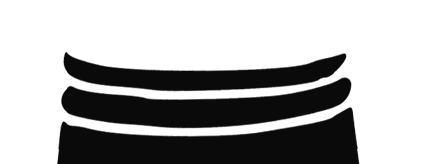
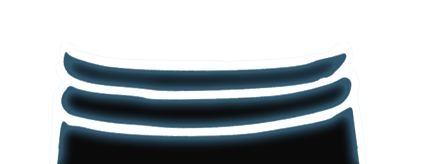
mejorado botones y frames

Changed region(s): [[0.1215, 0.3049, 0.8505, 1.0]]

diff --git a/app/ui/AnimatedButton.js b/app/ui/AnimatedButton.js
@@ -1,11 +1,11 @@
 "use client"
 import { useState } from "react";
 import { SiWikipedia } from "react-icons/si";
-import { CiImageOn } from "react-icons/ci";
+import { GiFamilyTree } from "react-icons/gi";
 import { MdOutlineTextsms } from "react-icons/md";
 import Image from "next/image";
 
-export const AnimatedButton = ({ id, name, wiki, info, img, color_bg, h, w }) => {
+export const AnimatedButton = ({ id, name, wiki, info, img, color_bg, h, w, zIndex, progenitor ,descendant ,couple ,siblings ,related }) => {
   const visibleName = name.replace(/_/g, "\u00A0");
   const [popup, setPopup] = useState(null);
   const [isHovering, setIsHovering] = useState(false);
@@ -22,6 +22,7 @@ export const AnimatedButton = ({ id, name, wiki, info, img, color_bg, h, w }) =>
     <div 
       id={id}
       className="relative flex flex-col items-center"
+      style={{zIndex:zIndex}}
       onMouseEnter={() => {
         clearTimeout(leaveTimeout);
         setIsHovering(true);
@@ -34,16 +35,20 @@ export const AnimatedButton = ({ id, name, wiki, info, img, color_bg, h, w }) =>
       }}
     >
       <button
-        className={`border-none rounded-[40px] w-60 cursor-pointer group relative`}
+        className={`border-none rounded-[40px] cursor-pointer group relative`}
         style={{
-          height: `${hei}rem`,
-          width: `${wid}rem`
+          height: `${hei}vw`,
+          width: `${wid}vw`
         }}
       >
-        <span className={`z-10 capitalize inline-block ${color_bg} rounded-[25px] text-black leading-[60px] text-lg tracking-widest transition-all duration-500 group-hover:!w-0 group-hover:opacity-0`}
+        <span className={`z-10 capitalize inline-flex items-center justify-center ${color_bg} rounded-[25px] text-black leading-[60px] text-[1.1vw] tracking-widest transition-all duration-500 group-hover:!w-0 group-hover:opacity-0`}
           style={{
-            height: `${hei}rem`,
-            width: `${wid}rem`
+            height: `${hei}vw`,
+            width: `${wid}vw`,
+            display: 'inline-flex', // Cambiado a flex para mejor control
+            alignItems: 'center', // Centrado vertical
+            justifyContent: 'center', // Centrado horizontal
+            textAlign: 'center' // Redundante pero segura
           }}
         >
           {visibleName}
@@ -52,39 +57,33 @@ export const AnimatedButton = ({ id, name, wiki, info, img, color_bg, h, w }) =>
         <div className="absolute inset-0 flex items-center justify-center opacity-0 group-hover:opacity-100 transition-opacity duration-300 gap-2">
           <div className="relative">
             <MdOutlineTextsms
-              className="text-white w-[45px] h-[45px] px-2.5 cursor-pointer"
+              className="text-yellow-500/80 bg-gray-900 rounded-4xl w-[3.2vw] h-[3.2vw] px-[.7vw] cursor-pointer"
               onClick={() => togglePopup("text")}
             />
           </div>
 
           <div className="relative">
-            <CiImageOn
-              className="text-white w-[45px] h-[45px] px-2.5 cursor-pointer"
+            <GiFamilyTree
+              className="text-yellow-500/80 bg-gray-900 rounded-4xl w-[3.2vw] h-[3.2vw] px-[.7vw] cursor-pointer"
               onClick={() => togglePopup("image")}
             />
           </div>
 
           <a href={wiki} target="_blank" rel="noopener noreferrer">
-            <SiWikipedia className="text-white w-[45px] h-[45px] px-2.5" />
+            <SiWikipedia className="text-yellow-500/80 bg-gray-900 rounded-4xl w-[3.2vw] h-[3.2vw] px-[.7vw]" />
           </a>
         </div>
       </button>
 
       {popup === "text" && isHovering && (
         <div 
-          className="absolute top-full translate-y-2 w-[300px] h-[300px] bg-white text-black rounded-xl shadow-md overflow-auto z-50"
+          className="absolute top-full border-2 border-yellow-500/90 overflow-hidden translate-y-2 w-[22vw] h-[22vw] rounded-xl bg-gray-900 shadow-md"
+          style={{zIndex:zIndex}}
         >
-          <div className="relative flex flex-col h-full">
-            <div className="relative h-2/3 w-full">
-              <Image
-                src={img}
-                alt="Imagen descriptiva"
-                fill
-                className="object-cover object-top"
-              />
-            </div>
-            <div className="h-1/2 p-2">
-              <p className="text-sm">{info}</p>
+          <div className="relative flex flex-col h-full font-sans text-yellow-500/60 bg-gray-900">
+            <div className="p-2">
+              <h4 className="text-center font-ringm text-[1.5vw]">Summary</h4>
+              <p className="text-sm text-[1.2vw]">{info}</p>
             </div>
           </div>
         </div>
@@ -92,15 +91,76 @@ export const AnimatedButton = ({ id, name, wiki, info, img, color_bg, h, w }) =>
 
       {popup === "image" && isHovering && (
         <div 
-          className="absolute top-full translate-y-2 w-[250px] h-[200px] bg-white p-0.5 rounded-xl shadow-md overflow-hidden z-50"
-        >
-          <Image
-            src={img}
-            alt="Imagen descriptiva"
-            fill
-            className="object-cover object-top rounded-lg"
-          />
-        </div>
+  className="absolute top-full scroll-auto border-2 border-yellow-500/90 translate-y-2 w-[22vw] h-[22vw] bg-gray-900 rounded-xl shadow-md overflow-hidden"
+  style={{zIndex: zIndex}}
+>
+  <div className="relative flex flex-col h-full font-sans text-yellow-500/60 bg-gray-900 overflow-y-auto">
+    <div className="p-[.5vw]">
+      <h4 className="text-center font-ringm text-[1.5vw] sticky top-0 bg-gray-900 pb-[.5vw]">Related</h4>
+      <div className="columns-2 gap-4 items-center text-[1.2vw]">
+        {/* Lista 1 */}
+        {progenitor.length > 0 && (
+          <div className="break-inside-avoid pb-[1vw] text-center">
+            <span className="font-bold block">Progenitor/s</span>
+            <ul>
+              {progenitor.map((prog, i) => (
+                <li key={i}>{prog}</li>
+              ))}
+            </ul>
+          </div>
+        )}
+
+        {/* Lista 2 */}
+        {descendant.length > 0 && (
+          <div className="break-inside-avoid pb-[1vw] text-center">
+            <span className="font-bold block">Descendant</span>
+            <ul>
+              {descendant.map((prog, i) => (
+                <li key={i}>{prog}</li>
+              ))}
+            </ul>
+          </div>
+        )}
+
+        {/* Lista 3 */}
+        {couple.length > 0 && (
+          <div className="break-inside-avoid pb-[1vw] text-center">
+            <span className="font-bold block">Couple</span>
+            <ul>
+              {couple.map((prog, i) => (
+                <li key={i}>{prog}</li>
+              ))}
+            </ul>
+          </div>
+        )}
+
+        {/* Lista 4 */}
+        {siblings.length > 0 && (
+          <div className="break-inside-avoid pb-[1vw] text-center">
+            <span className="font-bold block">Siblings</span>
+            <ul>
+              {siblings.map((prog, i) => (
+                <li key={i}>{prog}</li>
+              ))}
+            </ul>
+          </div>
+        )}
+
+        {/* Lista 5 */}
+        {related.length > 0 && (
+          <div className="break-inside-avoid pb-[1vw] text-center">
+            <span className="font-bold block">Related</span>
+            <ul>
+              {related.map((prog, i) => (
+                <li key={i}>{prog}</li>
+              ))}
+            </ul>
+          </div>
+        )}
+      </div>
+    </div>
+  </div>
+</div>
       )}
     </div>
   );

diff --git a/app/ui/FrameButton.js b/app/ui/FrameButton.js
@@ -1,0 +1,65 @@
+import Image from "next/image"
+import { AnimatedButton } from "./AnimatedButton"
+
+export const FrameButton = ({ id, name, wiki, info, img, marco, color_bg, h, w, zindex, progenitor ,descendant ,couple ,siblings ,related }) => {
+
+    const zin = 999 - zindex
+    const zin_string = zin.toString()
+    console.log(zin_string);
+    console.log(typeof(zin_string));
+    return (
+        <div className="relative w-[18vw] h-[20vw] flex justify-center items-center mx-auto"
+            style={{zIndex:zin_string}}
+        >
+            {/* Contenedor de la imagen de contenido - CENTRADA */}
+            <div className="absolute inset-0 flex items-center justify-center">
+                <div className="relative w-[10vw] h-[16vw]"> {/* Ajusta el tamaño con w-2/3 h-2/3 o el % que necesites */}
+                    <Image
+                        src={img}
+                        alt="Imagen de contenido"
+                        fill
+                        className="object-cover object-top"
+                        sizes="(max-width: 768px) 100vw, 50vw"
+                    />
+                </div>
+            </div>
+
+            {/* Marco (ocupa todo el espacio) */}
+            <div className="absolute inset-0 w-full h-full z-10">
+                <Image
+                    src={marco}
+                    alt="Marco decorativo"
+                    fill
+                    className="object-contain"
+                    sizes="(max-width: 768px) 100vw, 50vw"
+                />
+            </div>
+
+            <div className="absolute inset-0 w-full h-full z-20">
+                <div className="relative w-full h-full">
+                    {/* <span className="absolute whitespace-nowrap bottom-4 font-ringm left-1/2 -translate-x-1/2 w-fit px-3 rounded-2xl text-black border-[#9d342e] border-2 bg-gradient-to-r from-[#cb3d17] via-[#f3cb00] to-[#cb3d17] text-center">
+                        {name.replace(/_/g, ' ')}
+                    </span> */}
+                    <div className="absolute bottom-4 font-ringm left-1/2 -translate-x-1/2">
+                        <AnimatedButton 
+                            id={id} 
+                            name={name} 
+                            wiki={wiki} 
+                            info={info} 
+                            img={img} 
+                            color_bg={color_bg} 
+                            h={h} 
+                            w={w}
+                            progenitor={progenitor}
+                            descendant={descendant}
+                            couple={couple}
+                            siblings={siblings}
+                            related={related}
+                            zIndex={zin_string}                 
+                        />
+                    </div>
+                </div>
+            </div>
+        </div>
+    )
+}

diff --git a/app/sections/RacesSection.js b/app/sections/RacesSection.js
@@ -1,6 +1,8 @@
 import { AnimatedButton } from "../ui/AnimatedButton"
+import { FrameButton } from "../ui/FrameButton"
 
-export const RacesSection = ({ data, index, img_bg = "illuvatar.jpg", h, w, order = "grid grid-cols-3 gap-y-5" }) => {
+
+export const RacesSection = ({ data, index, img_bg = "illuvatar.jpg", h, w, order = "grid grid-cols-3", marco }) => {
     return (
         <div className="flex justify-between">
             <div className="flex justify-between overflow-hidden">
@@ -18,13 +20,14 @@ export const RacesSection = ({ data, index, img_bg = "illuvatar.jpg", h, w, orde
             <div
                 className={`${order} justify-center bg-cover py-5 w-[70vw] mx-[1vw] rounded-lg`}
                 style={{
-                    backgroundImage: `url(/img/backgrounds/${img_bg})`
+                    // backgroundImage: `url(/img/backgrounds/${img_bg})`
                 }}
             >
                 {data.lotr_info[index].map((lotr, i) => {
                     return (
-                        <AnimatedButton
+                        <FrameButton 
                             key={i}
+                            zindex={i}
                             id={lotr.race + i.toString()}
                             name={lotr.nombre}
                             wiki={lotr.link}
@@ -33,7 +36,24 @@ export const RacesSection = ({ data, index, img_bg = "illuvatar.jpg", h, w, orde
                             color_bg={lotr.color_bg}
                             h={h}
                             w={w}
+                            progenitor={lotr.progenitor}
+                            descendant={lotr.descendant}
+                            couple={lotr.couple}
+                            siblings={lotr.siblings}
+                            related={lotr.related}
+                            marco={lotr.marco}
                         />
+                        // <AnimatedButton
+                        //     key={i}
+                        //     id={lotr.race + i.toString()}
+                        //     name={lotr.nombre}
+                        //     wiki={lotr.link}
+                        //     info={lotr.info}
+                        //     img={lotr.img}
+                        //     color_bg={lotr.color_bg}
+                        //     h={h}
+                        //     w={w}
+                        // />
                     )
                 })}
             </div>

diff --git a/app/page.js b/app/page.js
@@ -176,16 +176,16 @@ const Home = () => {
         <RacesSection
           data={data}
           index={0}
-          h={16}
-          w={80}
+          h={10}
+          w={50}
           order={"flex mb-5"}
         />
 
         <RacesSection
           data={data}
           index={1}
-          h={16}
-          w={60}
+          h={10}
+          w={50}
           img_bg="valar.webp"
         />
 

diff --git a/app/ui/Menu_Lota.js b/app/ui/Menu_Lota.js
@@ -11,7 +11,7 @@ export const Menu_Lota = ({ toggleMenu, isMenuOpen, closeMenu}) => {
     ]
     return(
 
-      <nav className="fixed top-0 w-full bg-black/60 z-50">
+      <nav className="fixed top-0 w-full bg-black/60 z-[1000]">
         <div className="container mx-auto px-4 py-4">
           <div className="flex justify-between items-center">
             <div className="flex items-center">
